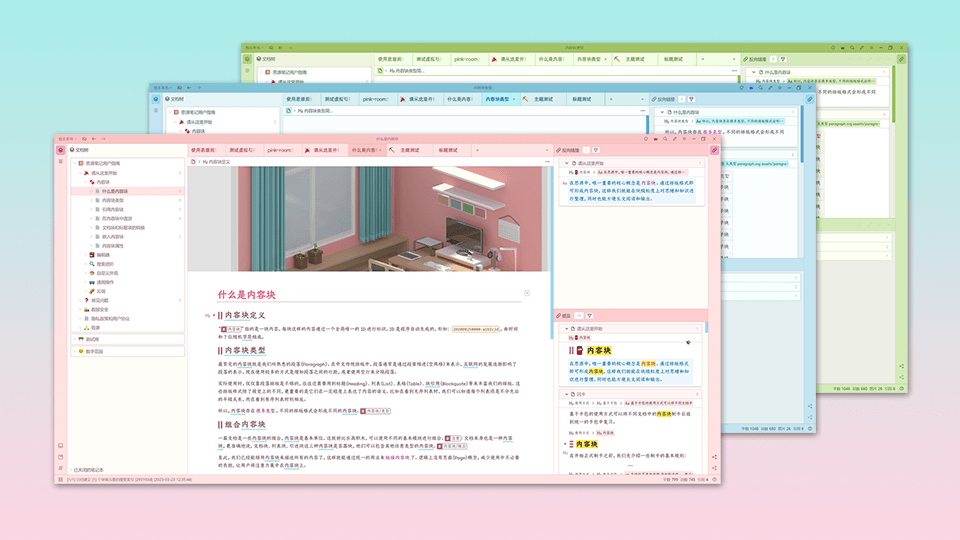
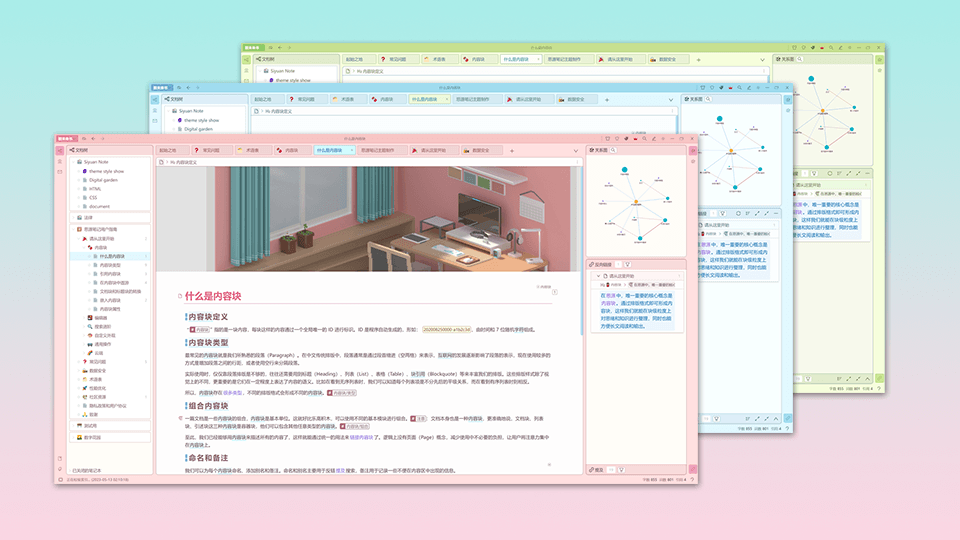
0.7.6update

Changed region(s): [[0.0625, 0.0593, 0.9688, 0.9185], [0.0625, 0.8593, 0.125, 0.8889], [0.0625, 0.8, 0.0938, 0.8296]]

diff --git a/样式修改/多级标题.css b/样式修改/多级标题.css
@@ -3,74 +3,75 @@
     letter-spacing: 0.1em;
     color: #8b5d6c !important;
     
-
 }
 
 /* 标题前图标 */
 .h1 > :first-child::before{
     background: url('../icon/headings/h1.svg');
-    left: 0.3rem;
-    bottom: 0.62rem;
+    left: 0.02em;
+    bottom: 0.08em;
 }
 .h1 > :first-child{
-    padding-left: 0.8rem;
+    padding-left: 0.5em;
 }
 
 
 
 .h2 > :first-child::before{
     background: url('../icon/headings/h2.svg');
-    left: 0.3rem;
-    bottom: 0.6rem;
+    left: 0.02em;
+    bottom: 0.08em;
 }
 .h2 > :first-child{
-    padding-left: 0.8rem;
+    padding-left: 0.565em;
 }
 
 .h3 > :first-child::before{
     background: url('../icon/headings/h3.svg');
-    left: 0.32rem;
-    bottom: 0.34rem;
+    left: 0em;
+    bottom: 0.12em;
 }
 .h3 > :first-child{
-    padding-left: 0.8rem;
+    padding-left: 0.634em;
 }
 
 .h4 > :first-child::before{
     background: url('../icon/headings/h4.svg');
-    left: 0.35rem;
-    bottom: 0.4rem;
+    left: 0.04em;
+    bottom: 0.16em;
 }
 .h4 > :first-child{
-    padding-left: 0.8rem;
+    padding-left: 0.7em;
 }
 
 
 .h5 > :first-child::before{
     background: url('../icon/headings/h5.svg');
-    left: 0.37rem;
-    bottom: 0.55rem;
+    left: 0.05em;
+    bottom: 0.34em;
 }
 .h5 > :first-child{
-    padding-left: 0.8rem;
+    padding-left: 0.77em;
 }
 /* 防止标题折叠后右侧圆点标示和小三角图标对不齐 */
+/* 现在暂时用不上这段代码 */
 .protyle-wysiwyg div[fold="1"][data-type=NodeHeading].h5:before{
-    top: 40% !important;
+    /* top: 40% !important; */
 }
 
 
 .h6 > :first-child::before{
     background: url('../icon/headings/h6.svg');
-    left: 0.39rem;
-    bottom: 0.68rem;
+    left: 0.08em;
+    bottom: 0.5em;
 }
 .h6 > :first-child{
-    padding-left: 0.8rem;
+    padding-left: 0.8em;
 }
 /* 防止标题折叠后右侧圆点标示和小三角图标对不齐 */
+/* 现在暂时用不上这段代码 */
 .protyle-wysiwyg div[fold="1"][data-type=NodeHeading].h6:before{
-    top: 40% !important;
+    /* top: 40% !important; */
 }
 
 
@@ -85,13 +86,20 @@
     filter: brightness(76%) sepia(79%) hue-rotate(147deg) saturate(194%);
     background-position:left bottom;
     background-repeat: no-repeat;
+    /* left: 0; */
+    vertical-align: middle;
+}
+
+
+.h1 > :first-child,.h2 > :first-child,.h3 > :first-child,.h4 > :first-child,.h5 > :first-child,.h6 > :first-child{
+    position: relative;
 }
 
 
 
-
 /* 为解决此问题做的修改：列表块中的1、2级标题的图标发生错位 https://github.com/StarDustSheep/pink-room/issues/27 */
-.list .h1 > :first-child::before{
+/* 暂时可能用不上这段代码了 */
+/* .list .h1 > :first-child::before{
     bottom: 0.2rem;
 }
 .list .h2 > :first-child::before{
@@ -102,5 +110,5 @@
 }
 .list .h6 > :first-child::before{
     bottom: 0.56rem;
-}
+} */
 

diff --git a/部件修改/卷轴页面.css b/部件修改/卷轴页面.css
@@ -20,7 +20,7 @@
 } */
 
 /* ----------此为当前正在使用的卷轴页面样式，去除了边框以防止其干扰对文字内容的阅读，底色相比之前更接近白色了，能更好地让多种字色的文字比较容易阅读---------- */
-.fn__flex-1.protyle .protyle-content:not(#searchPreview.fn__flex-1.protyle>.protyle-content,.block__popover,.block__edit.fn__flex-1.protyle>.protyle-content,.backlinkList .protyle-content,.backlinkMList .protyle-content, #cardPreview>.protyle-content){
+.fn__flex-1.protyle .protyle-content:not(#searchPreview.fn__flex-1.protyle>.protyle-content,.block__popover,.block__edit.fn__flex-1.protyle>.protyle-content,.backlinkList .protyle-content,.backlinkMList .protyle-content, #cardPreview>.protyle-content, .b3-dialog__container .protyle-content){
     width: 297mm !important;
     background-color: hsl(0, 33%, 99%);
     box-shadow: #33101624 0px 0px 0.7em 0.3em, #da5b872b 0px 0px 3em 1em, #f5e4e7a3 0px 0px 2.5em;

diff --git a/theme.css b/theme.css
@@ -61,7 +61,7 @@
 /* ——————作者自用功能 没事别开—————————— */
 /* 如果想要开启功能的话，就去除那行代码两边的符号并保存，这会取消这行代码的注释状态并使其生效 */
 /* @import url("样式修改/行内样式/12种背景色.css"); */
-/* @import url("样式修改/行内样式/12种字色.css"); */
+@import url("样式修改/行内样式/12种字色.css");
 /* @import url("部件修改/卷轴页面.css"); */
 /* @import url("部件修改/文档网格背景.css"); */
 

diff --git a/自定义属性/取消超级块边框.css b/自定义属性/取消超级块边框.css
@@ -12,6 +12,7 @@
     border: none ;
     margin: 0px !important;
     padding: 0px;
+    box-shadow: none;
 }
 
 
